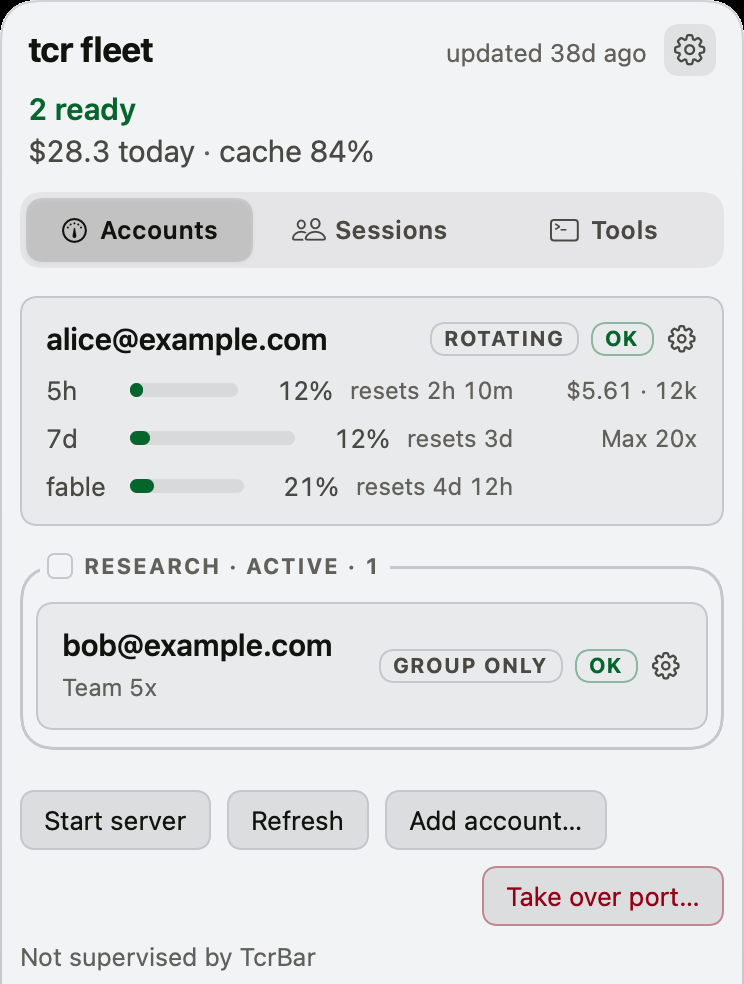
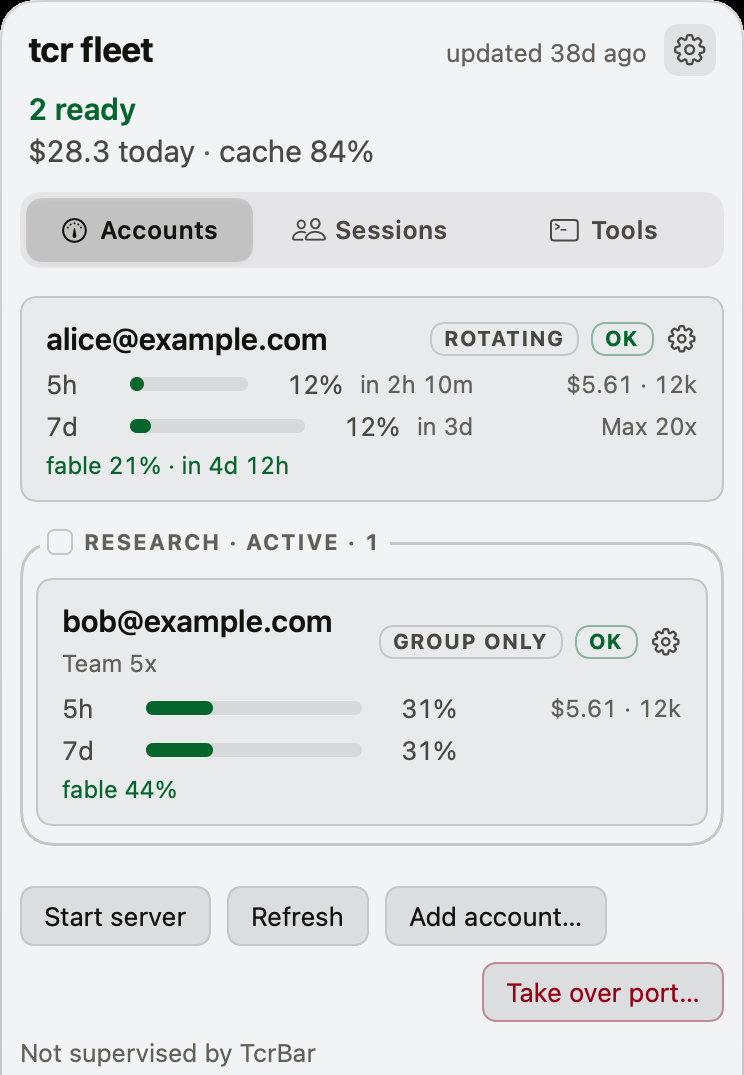
fix: find the README crop point by what the glyph is, not where it sat (#294)
`crop-readme-panels.py` could not cut any panel, against any render, on any
branch. Two independent breakages, both of them a probe looking in a place
rather than for a thing.

It scanned the left gutter, x in [20, 70), for the settings placeholder. The
keep-awake switch has since moved next to a label and the glyph slid to x=170,
so the scan found nothing and the script raised "no settings placeholder found"
— which reads like "the panel has no settings rows" and is really "the probe
looked in the wrong place". It failed that way against main's own render.

Find it by what it IS instead. The glyph is the only thing on the panel drawn
in saturated yellow WITH a red circle-slash: a quota bar can be amber but never
carries red, and a red bar is not yellow. That holds wherever the row moves to
next.

`blank()` was also sampling from x=0, which is the panel's own 1 pt border and
therefore two solid columns on every row. No row in any image was ever blank, in
either appearance, so the walk up into the gap never moved and the cut landed
flush on the keep-awake row. The border is now measured off the image rather
than guessed past.

The four panel shots are re-cut from the current build, which is the first
render in which a grouped account shows any quota at all (#292).

Fixture-run: feeding the script one of its own outputs, which by construction
has no placeholder left in it, is refused with exit 1 rather than cropped to
nothing.
[…]

diff --git a/scripts/crop-readme-panels.py b/scripts/crop-readme-panels.py
@@ -1,22 +1,57 @@
 #!/usr/bin/env python3
 """Crop a --render-states panel PNG for the README, as 93f7056 did.
 
-`ImageRenderer` cannot draw AppKit `.checkbox` toggles, so the three settings
-rows at the bottom of the panel rasterise as a yellow prohibition placeholder.
-The README shots are cut above them, at the blank gap below the action-button
-row: find the first row carrying that placeholder's yellow, walk up to the last
-run of background-only rows, and cut there.
+`ImageRenderer` cannot draw AppKit `.checkbox` toggles, so the keep-awake row at
+the bottom of the panel rasterises as a yellow prohibition placeholder. The
+README shots are cut above it, at the blank gap below the action-button row.
+
+FINDING THE PLACEHOLDER. This used to scan the left gutter, `x` in [20, 70),
+because a wider scan matches an amber `near` quota bar. That stopped working the
+moment the keep-awake switch moved next to a label and the glyph slid to x≈170:
+the script then raised "no settings placeholder found" on every scene, which
+reads like "the panel has no settings rows" and is really "the probe looked in
+the wrong place". It failed that way against `main`'s own render for anyone who
+ran it.
+
+So find it by what it IS rather than where it sat. The glyph is the only thing
+on this panel drawn in saturated yellow WITH a red circle-slash through it: a
+quota bar can be amber but never contains red, and a red bar is not yellow. Take
+the first row carrying a long yellow run whose band also carries red, and the
+answer holds wherever the row moves to next.
 
 Usage: crop-readme-panels.py <src.png> <dest.png>
 Prints `<dest> <width>x<height> cut=<row>` so the crop point is reviewable.
 """
 import sys
+
 from PIL import Image
+
+# How far below a candidate row to look for the slash. The glyph is ~48 px tall
+# at 2x and the slash crosses its middle, so half its height is enough.
+SLASH_SEARCH_ROWS = 56
+# A yellow run this long is a filled block, not an anti-aliased edge.
+MIN_YELLOW_RUN = 40
 
 
 def is_placeholder_yellow(pixel) -> bool:
     red, green, blue = pixel[:3]
     return red > 200 and 140 < green < 230 and blue < 90
+
+
+def is_slash_red(pixel) -> bool:
+    red, green, blue = pixel[:3]
+    return red > 150 and green < 90 and blue < 90
+
+
+def longest_yellow_run(image, y: int, width: int) -> int:
+    run = best = 0
+    for x in range(width):
+        if is_placeholder_yellow(image.getpixel((x, y))):
+            run += 1
+            best = max(best, run)
+        else:
+            run = 0
+    return best
 
 
 def main() -> int:
@@ -25,32 +60,57 @@ def main() -> int:
     width, height = image.size
     background = image.getpixel((2, height // 2))
 
-    # Scan the LEFT GUTTER only, where the placeholder glyph sits. A wider scan
-    # matches an amber `near` quota bar, which starts around x=86 and would cut
-    # the shot in the middle of the fleet — the check that catches that is
-    # looking at the result, so the crop point is printed.
     first_yellow = None
     for y in range(height):
-        run = sum(1 for x in range(20, 70) if is_placeholder_yellow(image.getpixel((x, y))))
-        if run >= 10:
+        if longest_yellow_run(image, y, width) < MIN_YELLOW_RUN:
+            continue
+        band = range(y, min(y + SLASH_SEARCH_ROWS, height))
+        if any(
+            is_slash_red(image.getpixel((x, row)))
+            for row in band
+            for x in range(0, width, 2)
+        ):
             first_yellow = y
             break
     if first_yellow is None:
-        raise SystemExit(f"{src}: no settings placeholder found — nothing to crop above")
+        raise SystemExit(
+            f"{src}: no settings placeholder found. That is a claim about this probe as "
+            "much as about the image: check the panel still rasterises the keep-awake "
+            "switch as a yellow no-entry glyph before believing there is nothing to cut."
+        )
+
+    # The panel draws its own 1 pt border, which at 2x is two solid columns down
+    # BOTH edges of every row. Sampling from x=0 therefore made `blank` false for
+    # every row in the image, in both appearances: the walk up into the gap never
+    # moved and the cut landed flush on the keep-awake row. Measure the border
+    # rather than guessing past it.
+    inset = 0
+    while inset < width // 4 and image.getpixel((inset, height // 2)) != background:
+        inset += 1
+    inset += 1  # and the antialiased column just inside it
 
     def blank(y: int) -> bool:
         return all(
             max(abs(a - b) for a, b in zip(image.getpixel((x, y)), background)) <= 3
-            for x in range(0, width, 2)
+            for x in range(inset, width - inset, 2)
         )
 
-    gap_top = first_yellow
+    # Walk up off the keep-awake ROW first, not just off the glyph. The switch
+    # now sits beside a "Keep awake" label and across from Quit, so the rows
+    # immediately above the glyph are still that row's own ink and there is no
+    # blank gap there to find. Clearing the band puts us in the gap the cut
+    # belongs in.
+    band_top = first_yellow
+    while band_top > 0 and not blank(band_top - 1):
+        band_top -= 1
+
+    gap_top = band_top
     while gap_top > 0 and blank(gap_top - 1):
         gap_top -= 1
     # A few rows INTO the gap, not at its top: cutting flush against the last
     # drawn row shaves the bottom edge of the Quit button, which is what the
     # committed shots keep.
-    cut = min(gap_top + 8, first_yellow)
+    cut = min(gap_top + 8, band_top)
     image.crop((0, 0, width, cut)).save(dest)
     print(f"{dest} {width}x{cut} cut={cut} gap={gap_top}..{first_yellow - 1}")
     return 0
